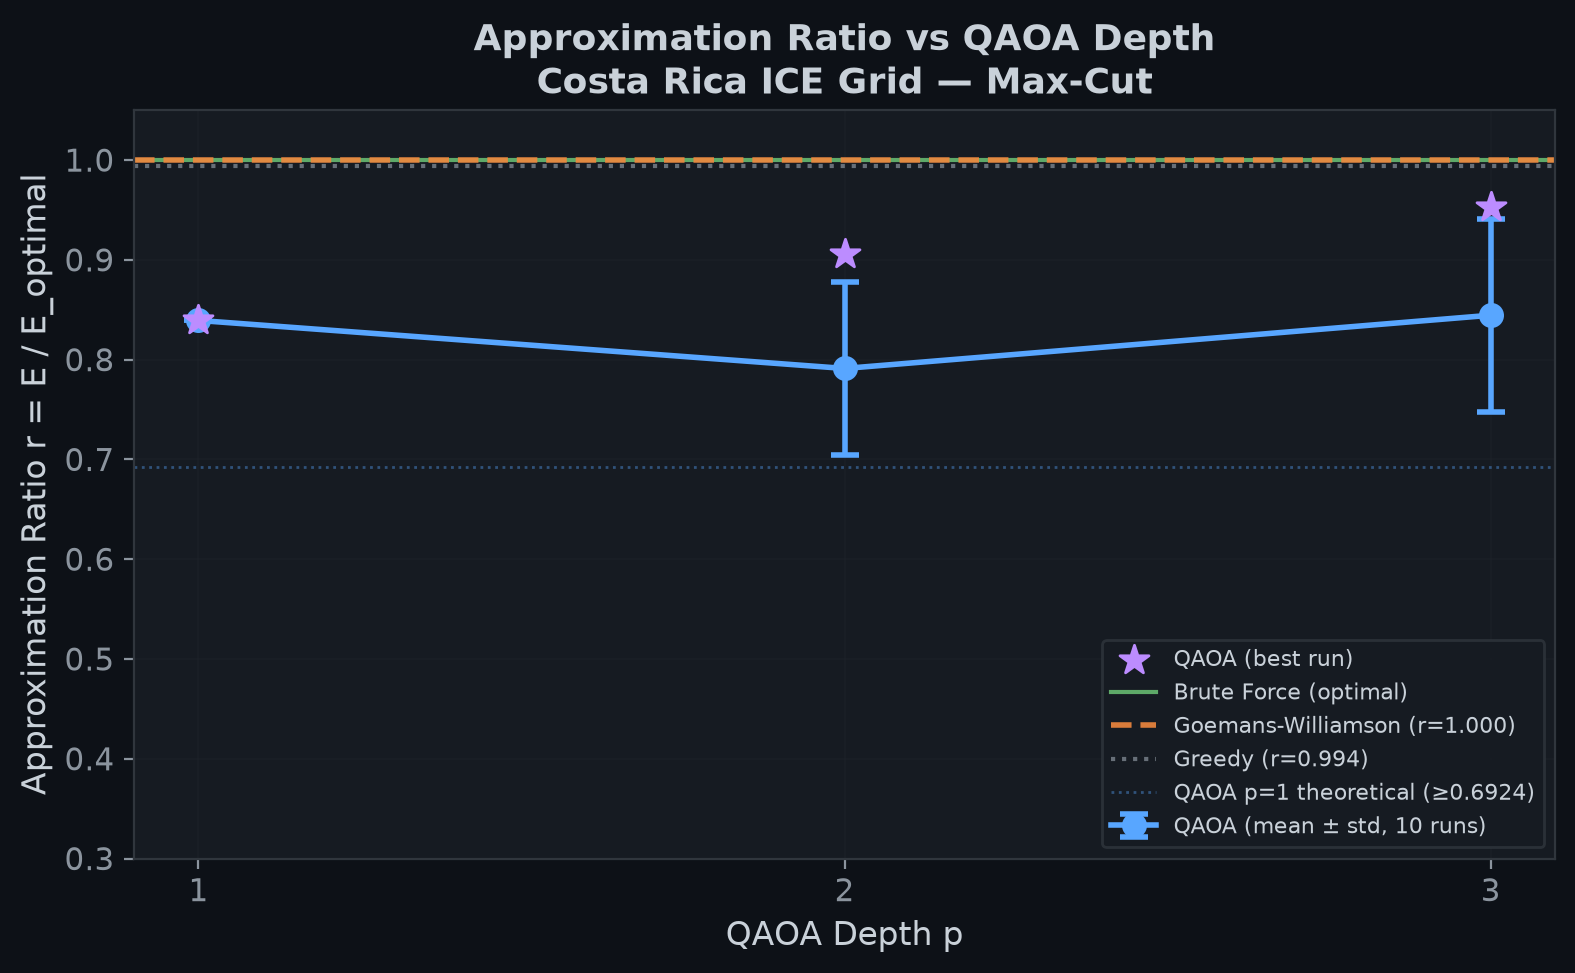
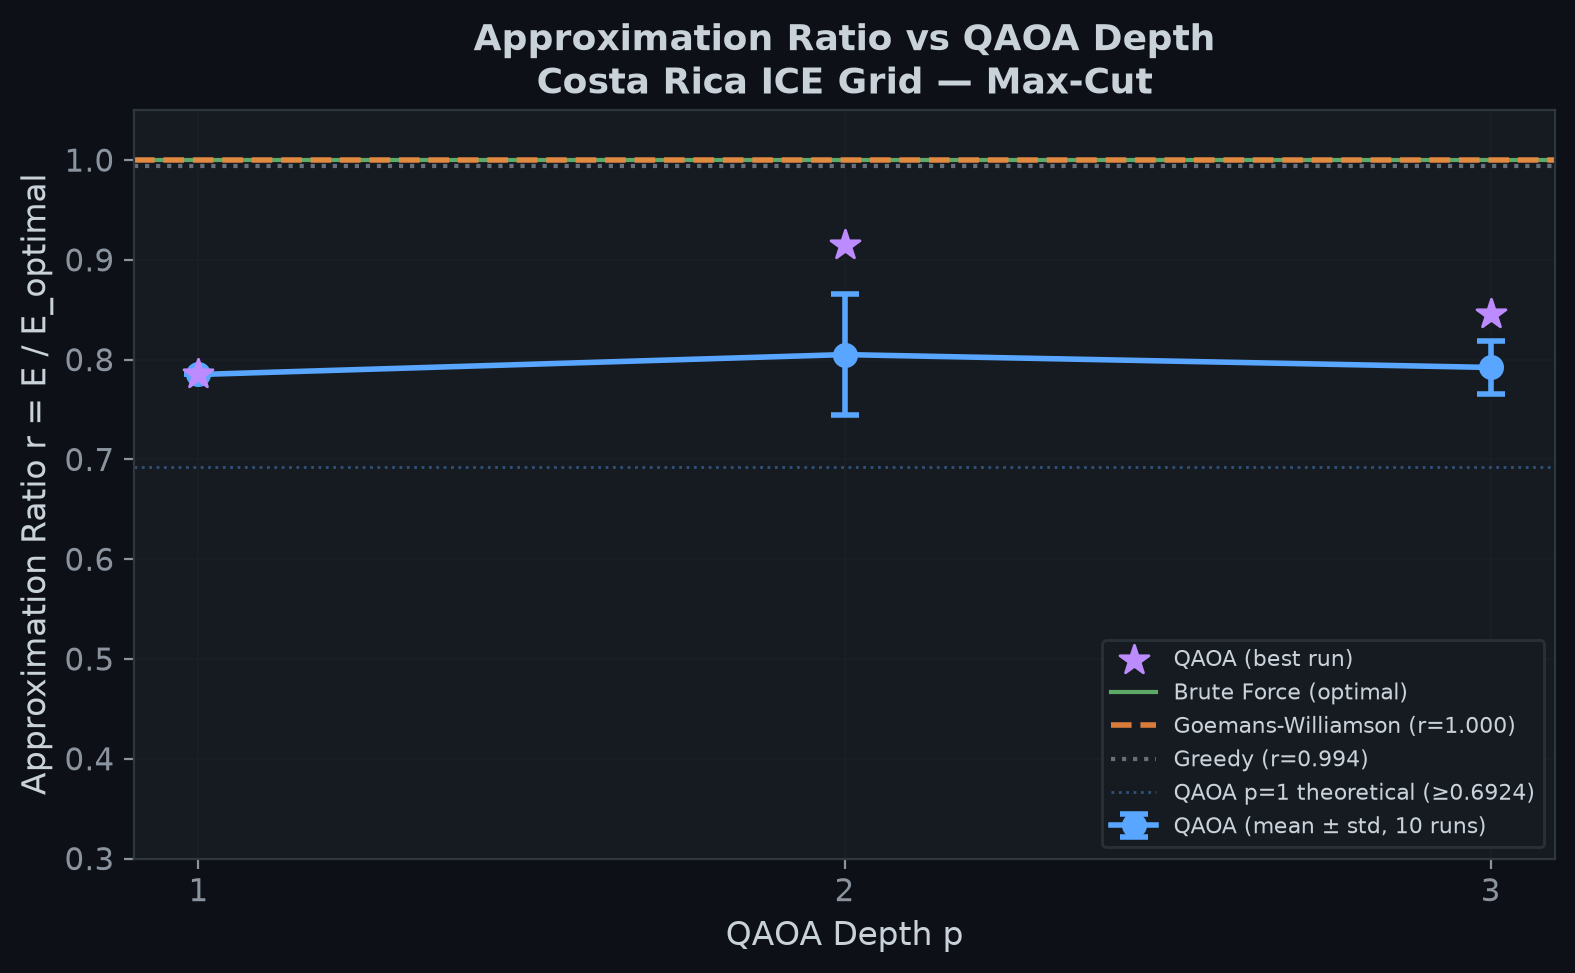
feat: implement Warm-Started QAOA (WS-QAOA)

diff --git a/quantum_grid_intelligence.py b/quantum_grid_intelligence.py
@@ -24,7 +24,7 @@ import matplotlib.pyplot as plt
 import matplotlib.patches as mpatches
 from matplotlib.colors import LinearSegmentedColormap
 from scipy.optimize import minimize
-from scipy.linalg import cholesky
+from scipy.linalg import cholesky, expm
 
 warnings.filterwarnings("ignore", category=DeprecationWarning)
 
@@ -418,7 +418,7 @@ def goemans_williamson_maxcut(G, num_rounds=GW_ROUNDS):
     cuts = np.array(cuts)
     best_idx = np.argmax(cuts)
 
-    return cuts[best_idx], assignments[best_idx], np.mean(cuts), np.std(cuts)
+    return cuts[best_idx], assignments[best_idx], np.mean(cuts), np.std(cuts), X_val
 
 
 # ═══════════════════════════════════════════════════════════════════════════════
@@ -427,65 +427,64 @@ def goemans_williamson_maxcut(G, num_rounds=GW_ROUNDS):
 
 def qaoa_statevector(G, gamma_list, beta_list):
     """
-    Simulate QAOA circuit using exact statevector evolution.
-
-    |ψ(γ,β)⟩ = Π_{l=1}^{p} [ U(H_B, β_l) · U(H_C, γ_l) ] |+⟩^n
-
-    U(H_C, γ) = Π_{(i,j)∈E} exp(-i·γ·w_ij/2·(I - Z_i·Z_j))
-    U(H_B, β) = Π_i exp(-i·β·X_i)
-
-    Returns: statevector |ψ⟩ as numpy array
+    Simulate Warm-Started QAOA circuit using exact statevector evolution.
+    Uses continuous GW probabilities c_i for initial state and custom mixer.
     """
     n = G.number_of_nodes()
     N = 2 ** n
     p = len(gamma_list)
     assert len(beta_list) == p
 
-    # Initialize |+⟩^n
-    psi = np.ones(N, dtype=complex) / np.sqrt(N)
+    nodes_list = list(G.nodes())
+    # Get warm-start probabilities or default to 0.5 (standard QAOA)
+    c_i_list = [G.nodes[i].get("c_i", 0.5) for i in nodes_list]
+
+    # Initialize |ψ(c)⟩
+    psi = np.zeros(N, dtype=complex)
+    for k in range(N):
+        amp = 1.0
+        for i in range(n):
+            bit = (k >> (n - 1 - i)) & 1
+            amp *= np.sqrt(c_i_list[i]) if bit == 1 else np.sqrt(1 - c_i_list[i])
+        psi[k] = amp
+
+    # Pre-calculate mixer Hamiltonian for each node
+    U_B_list = []
+    for c_i in c_i_list:
+        H_B_i = np.array([
+            [2*c_i - 1, -2*np.sqrt(c_i*(1-c_i))],
+            [-2*np.sqrt(c_i*(1-c_i)), 1 - 2*c_i]
+        ], dtype=complex)
+        U_B_list.append(H_B_i)
 
     for layer in range(p):
         gamma = gamma_list[layer]
         beta = beta_list[layer]
 
         # ── Cost unitary: U(H_C, γ) ──
-        # For each edge (i,j): apply exp(-i·γ·w/2·(I - Z_i·Z_j))
-        # = exp(-i·γ·w/2) · exp(+i·γ·w/2·Z_i·Z_j)
-        # The global phase exp(-i·γ·w/2) cancels in expectation values.
-        # Phase applied to basis state |b⟩: exp(+i·γ·w/2·(-1)^{b_i⊕b_j})
-        # where b_i = bit i of basis state b.
-
         for u, v, data in G.edges(data=True):
             w = data["weight"]
             angle = gamma * w / 2.0
+            u_idx = nodes_list.index(u)
+            v_idx = nodes_list.index(v)
             for k in range(N):
-                # Extract bits u and v from basis state k
-                bit_u = (k >> (n - 1 - u)) & 1
-                bit_v = (k >> (n - 1 - v)) & 1
-                # Z_u Z_v eigenvalue: +1 if same, -1 if different
+                bit_u = (k >> (n - 1 - u_idx)) & 1
+                bit_v = (k >> (n - 1 - v_idx)) & 1
                 zz = 1 - 2 * (bit_u ^ bit_v)
                 psi[k] *= np.exp(1j * angle * zz)
 
         # ── Mixer unitary: U(H_B, β) ──
-        # exp(-i·β·X_i) on each qubit = Rx(2β) on each qubit
-        # Rx(θ) = [[cos(θ/2), -i·sin(θ/2)], [-i·sin(θ/2), cos(θ/2)]]
-
         for qubit in range(n):
-            cos_b = np.cos(beta)
-            sin_b = np.sin(beta)
+            U_B = expm(-1j * beta * U_B_list[qubit])
             psi_new = np.zeros_like(psi)
-
             for k in range(N):
                 bit = (k >> (n - 1 - qubit)) & 1
                 k_flip = k ^ (1 << (n - 1 - qubit))
-
+                
                 if bit == 0:
-                    psi_new[k] += cos_b * psi[k]
-                    psi_new[k] += -1j * sin_b * psi[k_flip]
+                    psi_new[k] += U_B[0, 0] * psi[k] + U_B[0, 1] * psi[k_flip]
                 else:
-                    psi_new[k] += -1j * sin_b * psi[k_flip]
-                    psi_new[k] += cos_b * psi[k]
-
+                    psi_new[k] += U_B[1, 1] * psi[k] + U_B[1, 0] * psi[k_flip]
             psi = psi_new
 
     return psi
@@ -940,11 +939,19 @@ def main():
     print(f"  ✓ Greedy Max-Cut = {greedy_cut:.2f} (r = {greedy_ratio:.3f})")
 
     print(f"  Running Goemans-Williamson ({GW_ROUNDS} hyperplane rounds)...")
-    gw_cut, gw_x, gw_mean, gw_std = goemans_williamson_maxcut(G)
+    gw_cut, gw_x, gw_mean, gw_std, X_val = goemans_williamson_maxcut(G)
     gw_ratio = gw_cut / optimal_cut
     gw_mean_ratio = gw_mean / optimal_cut
     print(f"  ✓ GW Best Max-Cut = {gw_cut:.2f} (r = {gw_ratio:.3f})")
     print(f"    GW Mean = {gw_mean:.2f} ± {gw_std:.2f} (r_mean = {gw_mean_ratio:.3f})")
+
+    # [NEW] WS-QAOA Warm Start Integration
+    print("    -> Warm-starting QAOA from Goemans-Williamson SDP solution...")
+    nodes_list = list(G.nodes())
+    for idx, i in enumerate(nodes_list):
+        c_val = (1 - X_val[0, idx]) / 2.0
+        c_val = np.clip(c_val, 0.05, 0.95)  # Epsilon = 0.05 for exploration
+        G.nodes[i]["c_i"] = c_val
 
     # ── Section 4 & 5: QAOA Optimization ──
     print("\n>>  Section 4-5: QAOA Optimization...")